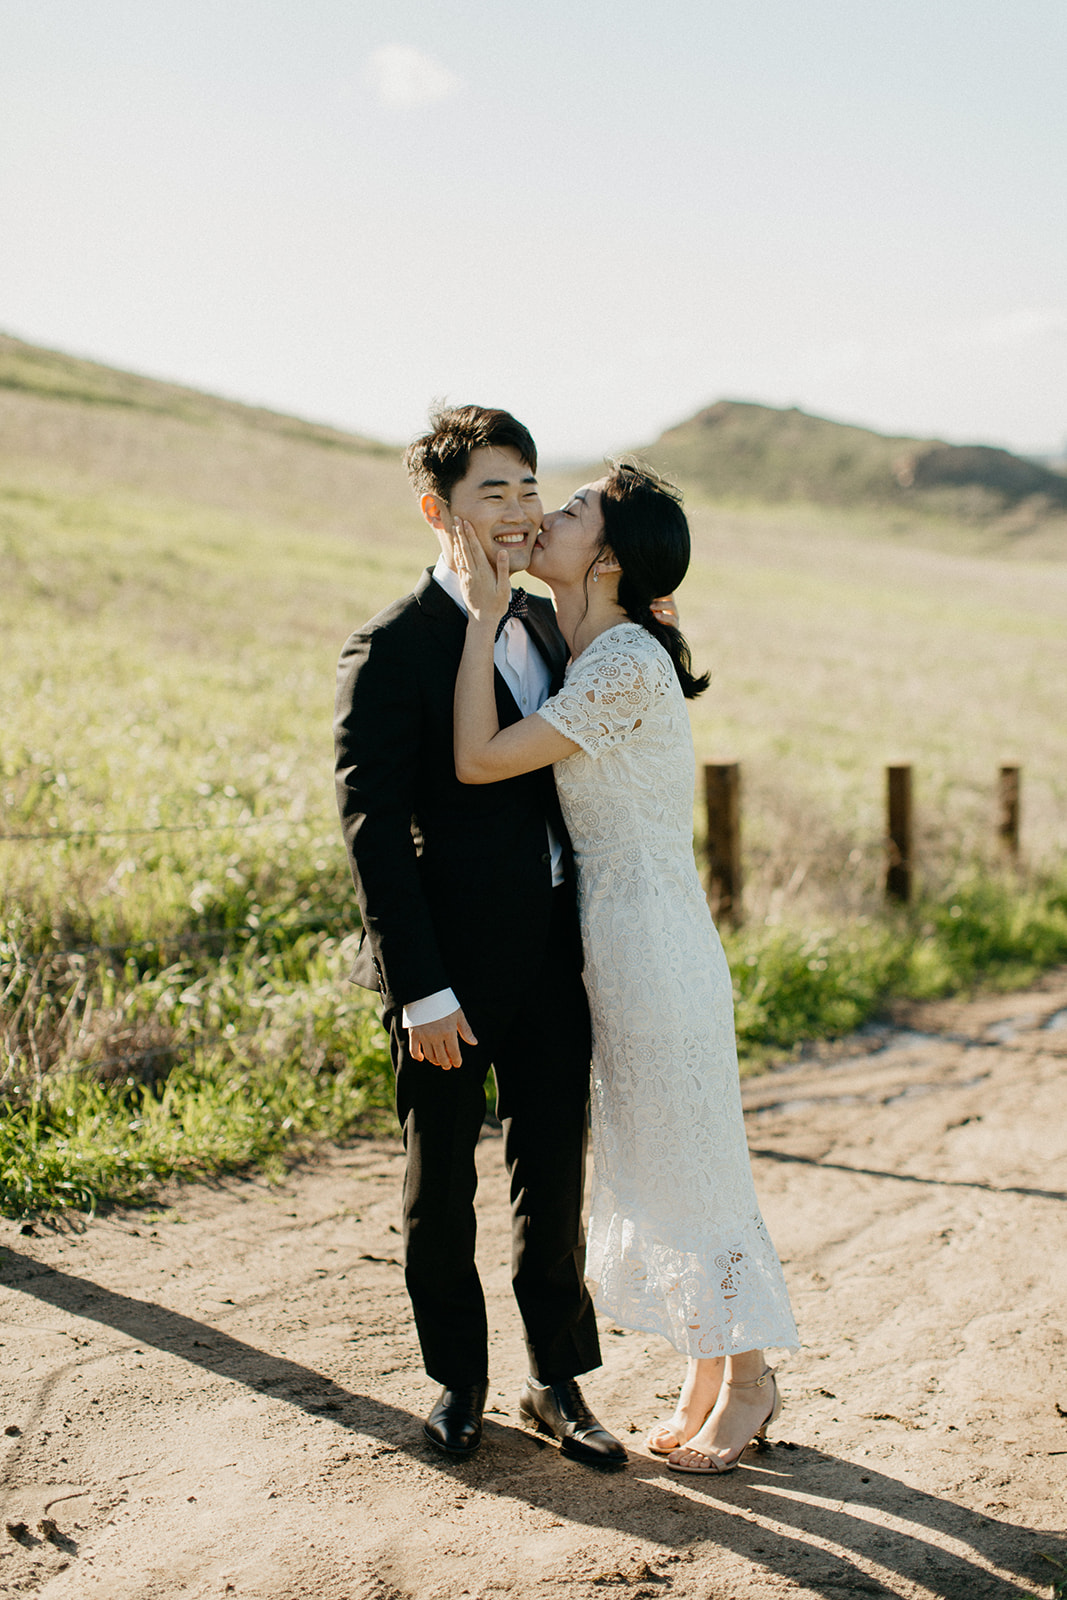
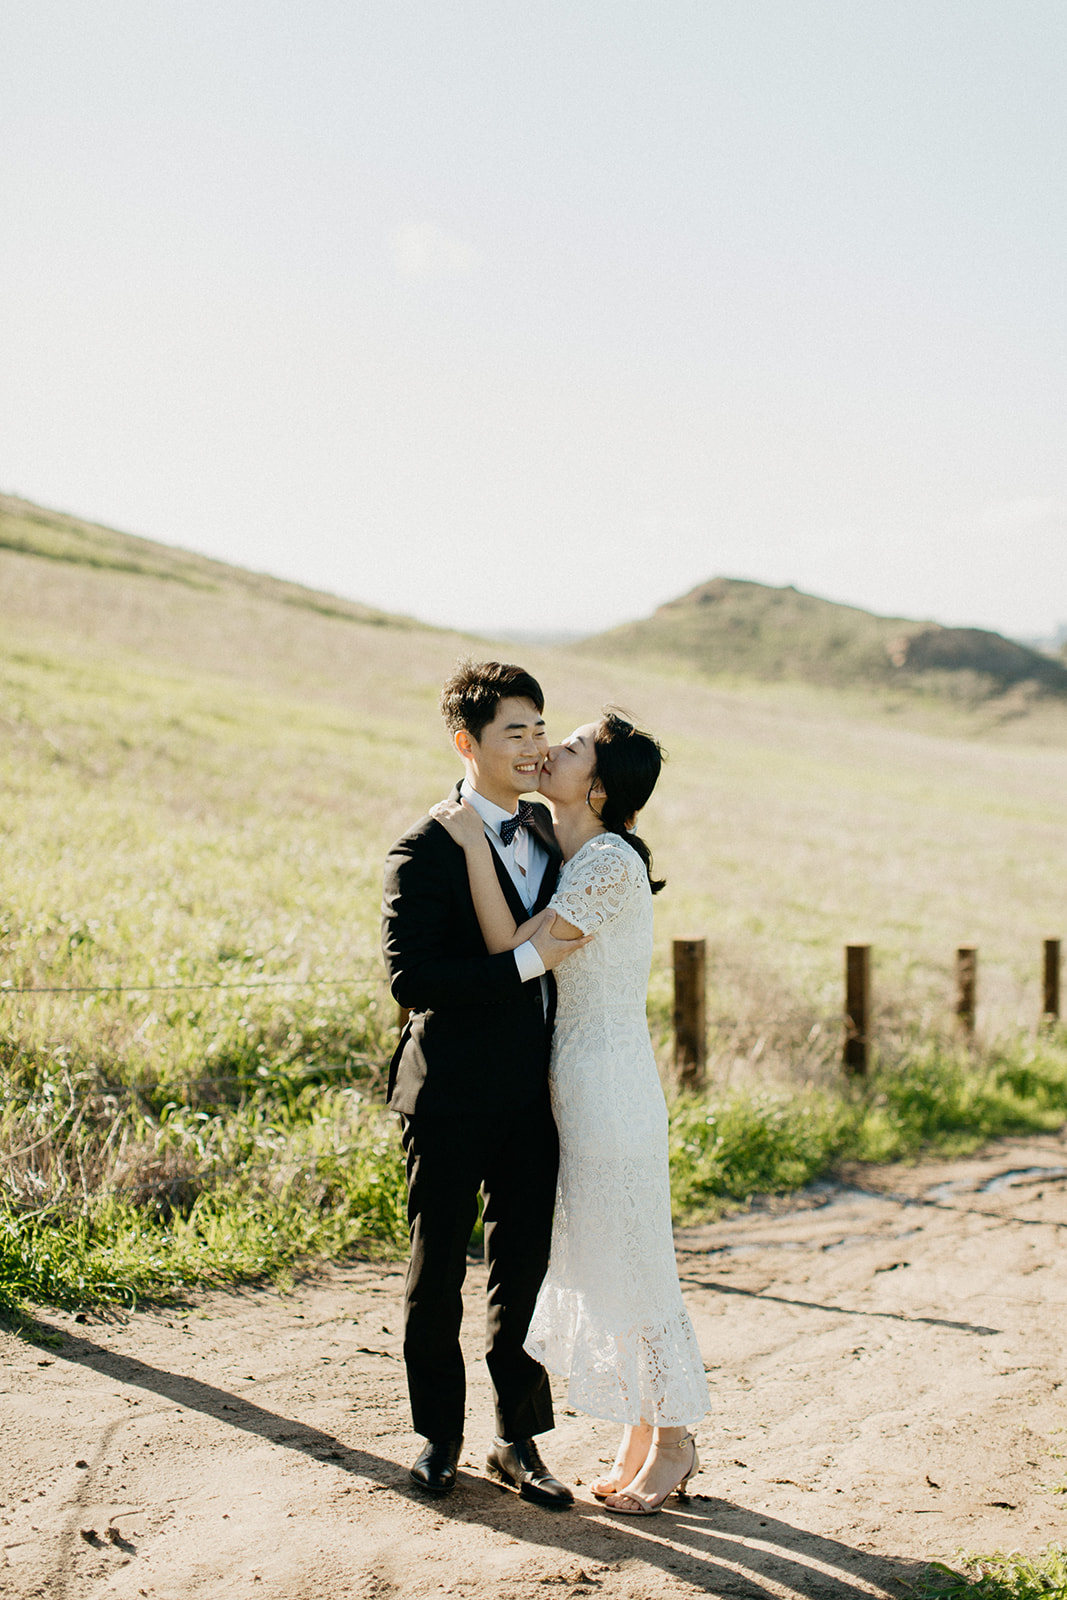
add more photos

diff --git a/client/src/components/wedding/Photos.js b/client/src/components/wedding/Photos.js
@@ -13,6 +13,10 @@ import pic08 from '../../assets/images/engage/08.JPG'
 import pic09 from '../../assets/images/engage/09.JPG'
 import pic10 from '../../assets/images/engage/10.JPG'
 import pic11 from '../../assets/images/engage/11.JPG'
+import pic12 from '../../assets/images/engage/12.JPG'
+import pic13 from '../../assets/images/engage/13.JPG'
+import pic14 from '../../assets/images/engage/14.JPG'
+import pic15 from '../../assets/images/engage/15.JPG'
 
 class Photos extends Component {
     render() {
@@ -54,6 +58,18 @@ class Photos extends Component {
                         </div>
                         <div>
                             <img src={pic11} alt="wedding11" />
+                        </div>
+                        <div>
+                            <img src={pic12} alt="wedding12" />
+                        </div>
+                        <div>
+                            <img src={pic13} alt="wedding13" />
+                        </div>
+                        <div>
+                            <img src={pic14} alt="wedding14" />
+                        </div>
+                        <div>
+                            <img src={pic15} alt="wedding15" />
                         </div>
                     </Carousel>
                 </div>
